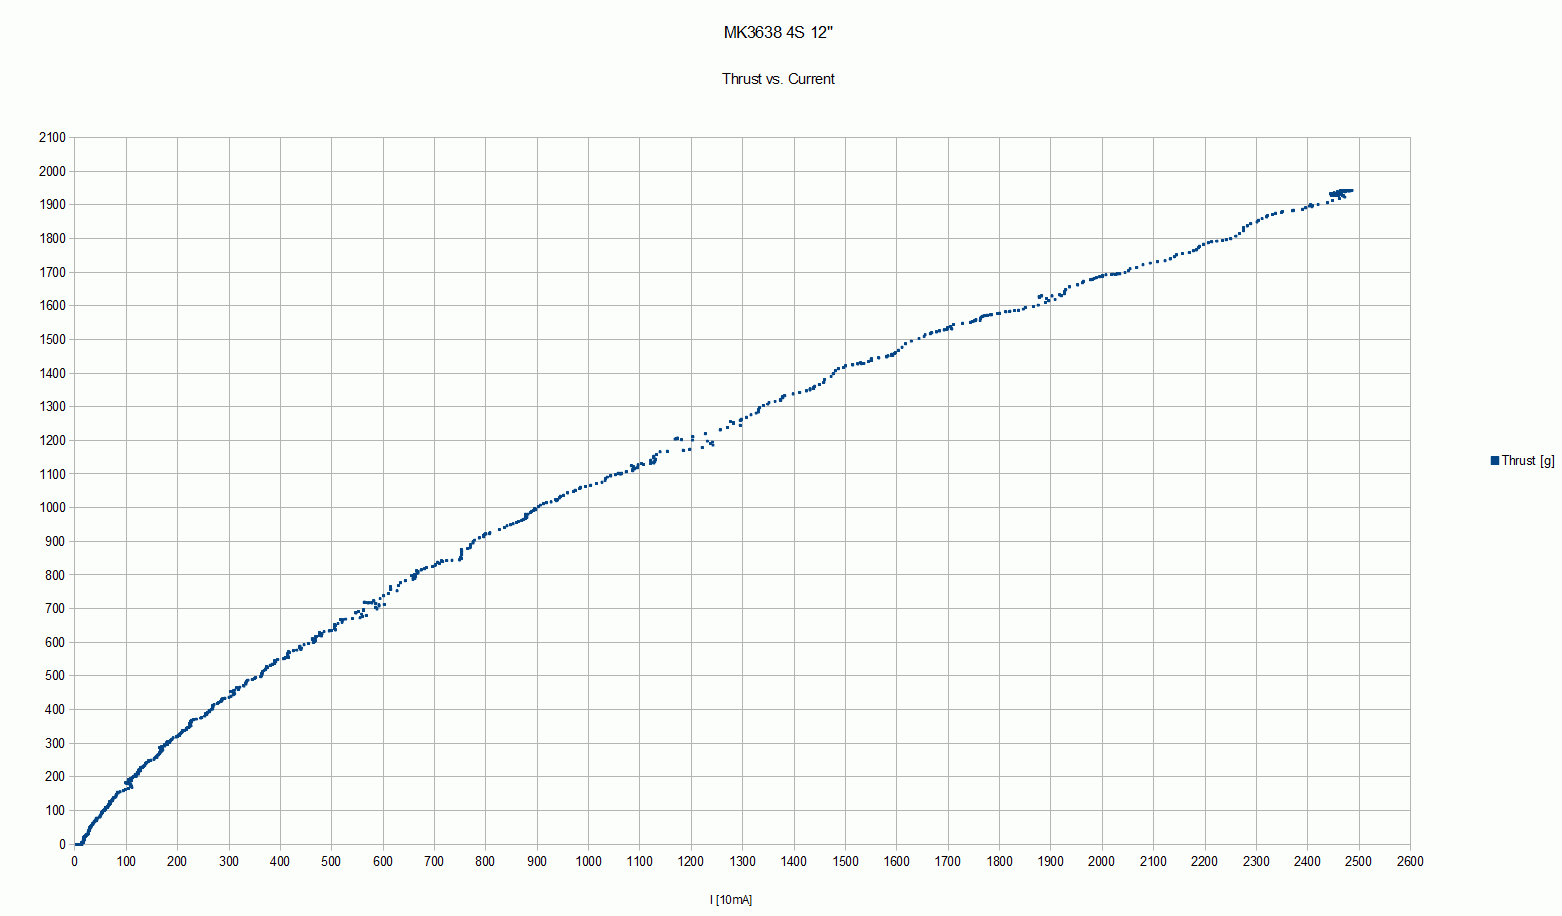
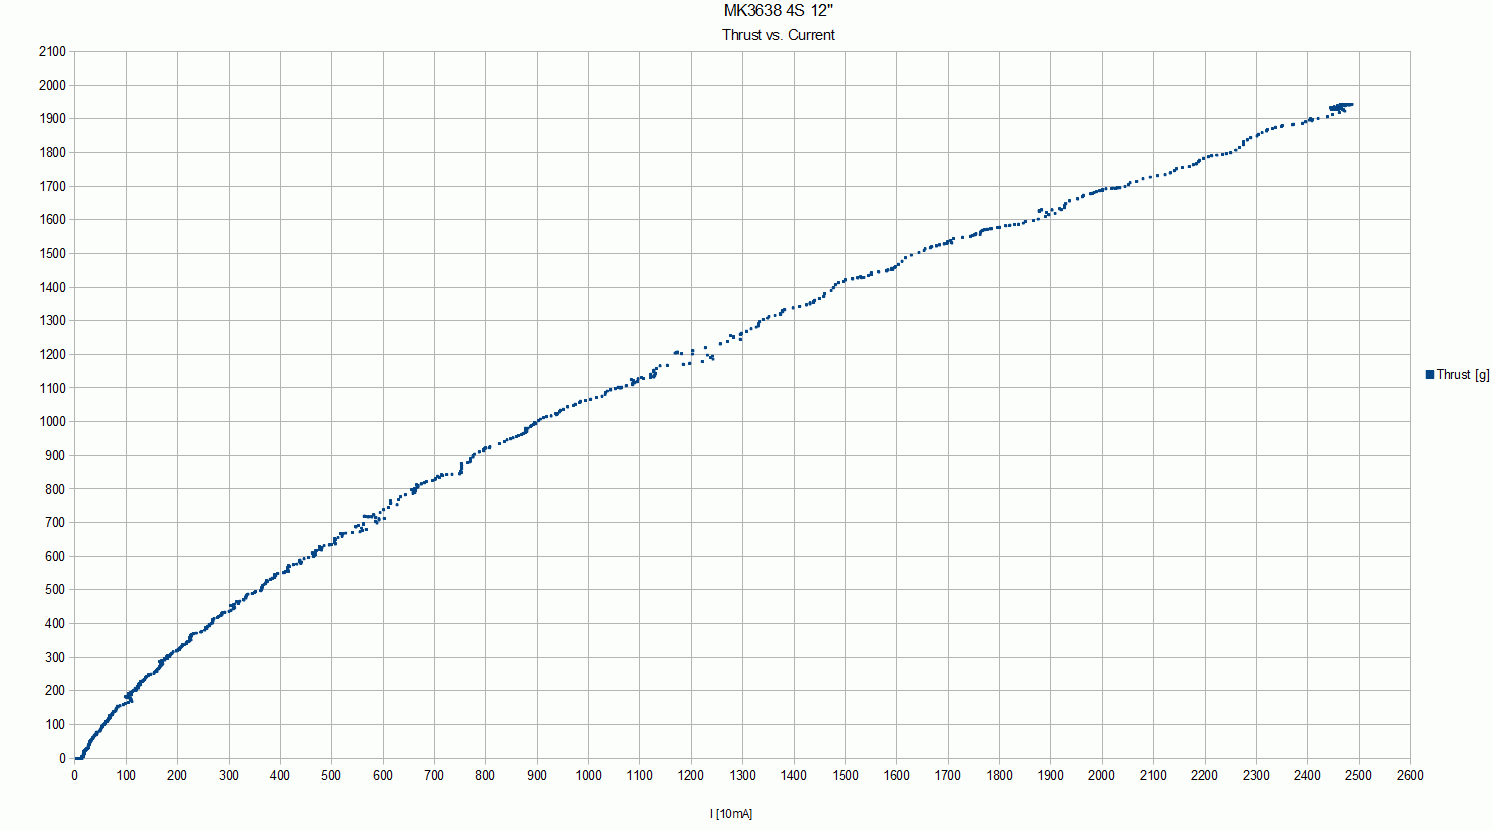
update motor curve images, fix wrong size, change table caption to bottom

diff --git a/electronics.tex b/electronics.tex
@@ -18,33 +18,30 @@ Experimental curves for the motor are available at Mikrokopter's website, and th
 
 \begin{figure}[h]
   \centering
-  \begin{subfigure}{0.95\textwidth}
+  \begin{subfigure}{0.9\textwidth}
     \centering
-    \includegraphics[\linewidth]{figs/curve12.png}
+    \includegraphics[width=\linewidth]{figs/curve12.png}
   
-  \end{subfigure}%
+  \end{subfigure}
   
-  \begin{subfigure}{0.95\textwidth}
+  \begin{subfigure}{0.9\textwidth}
     \centering
     \includegraphics[width=\linewidth]{figs/curve15.png}
 
   \end{subfigure}
-  \caption{Motor curves with 12 and 15 inches p
-  ropellers.}
+  \caption{Motor curves with 12 and 15 inches propellers. Source: mikrokopter.de}
   \label{fig:motorcurves}
 \end{figure}
 
 \begin{table}[H]
 \centering
-\caption{Mk3638 Brushless Motor Technical Specifications}
-\label{tab:mk3638}
 \begin{tabular}{|l|l|}
 \hline
 Lithium cell count 					& 3-6 \\ \hline
 Load current      					& max. 20A \\ \hline
 Maximum load current. (60 sec)		& 25 A \\ \hline
 No-load speed 						& 770 rpm / V \\ \hline
-Recommended Propeller Size 			& 10" .. 14 \\ \hline
+Recommended Propeller Size 			& 10" .. 14" \\ \hline
 Mechanical power					& 350 W \\ \hline
 Thrust max.							& 2200 g \\ \hline
 Wire length							& about 52 cm \\ \hline
@@ -52,6 +49,7 @@ Total weight (without cable)		& approx 100g \\ \hline
 Dimensions							& h=35mm, d=38mm \\ \hline
 Shaft diameter						& 4 mm \\ \hline
 \end{tabular}
+\caption{Mk3638 Brushless Motor Technical Specifications}\label{tab:mk3638}
 \end{table}
 
 As the airplane is aimed to weigh around 3 kg, each motor needs to pull at least 1500g for hovering, leaving a maneuvering margin of around 1 kg for each motor.
